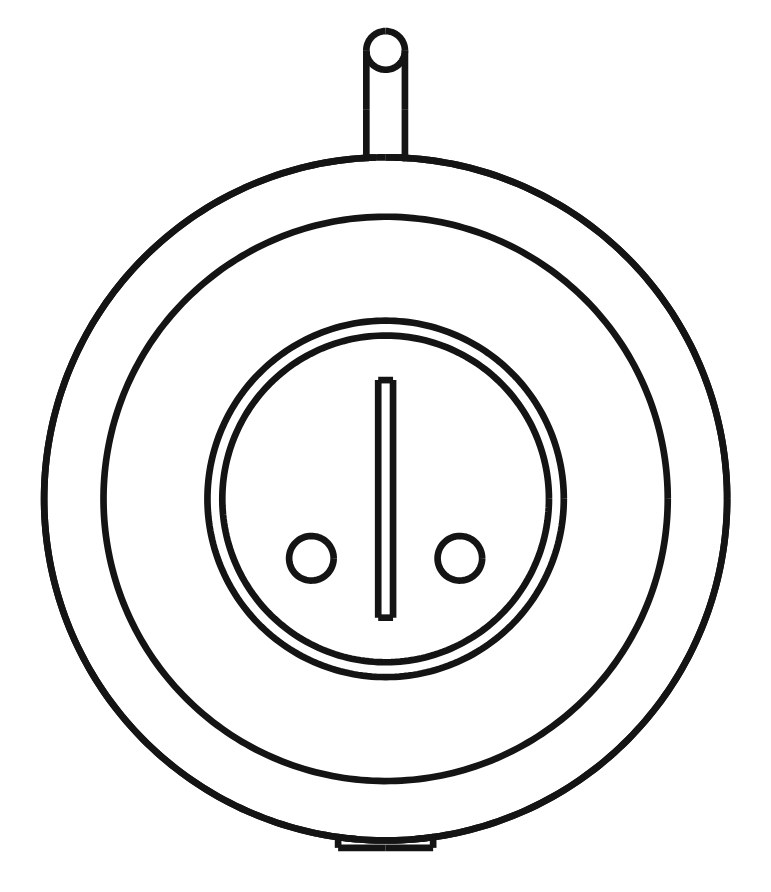
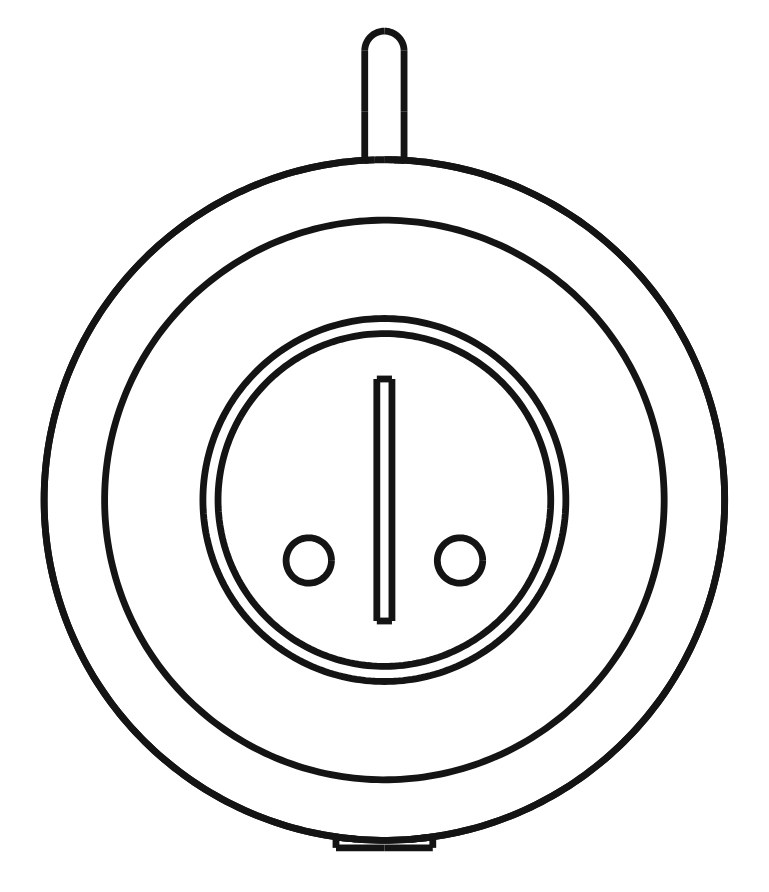
unfiled/lace: Blender renders up top, blueprints below, storyboard, principles, lineage and a far-right section jumper; discs resized to 4.5 cm for James's 45 mm melong, held in a leather cradle so the antique is never altered

diff --git a/site/unfiled/lace/index.html b/site/unfiled/lace/index.html
@@ -6,19 +6,68 @@
 <meta name="viewport" content="width=device-width, initial-scale=1">
 <title>THE LACE</title>
 <style>
-  body { background:#c0c0c0; color:#000; font-family:"Times New Roman", Times, serif; font-size:18px; margin:20px 36px; max-width:860px; }
-  a { color:#0000ee; } a:visited { color:#551a8b; }
-  pre, tt, code { font-family:"Courier New", Courier, monospace; font-size:15px; }
-  pre { line-height:1.15; overflow-x:auto; }
-  table { border-collapse:separate; border-spacing:2px; }
-  td, th { border:2px inset #eee; padding:4px 8px; vertical-align:top; font-size:17px; }
-  th { background:#d8d8d8; text-align:left; }
-  img { border:2px inset #eee; background:#fff; max-width:100%; height:auto; }
-  .k { font-family:"Courier New", Courier, monospace; white-space:nowrap; }
-  .fig { margin:18px 0; }
+  :root { --ink:#000; --paper:#c0c0c0; --card:#d4d0c8; --rule:#808080; --blue:#0000ee; }
+  html { scroll-behavior:smooth; }
+  body { background:var(--paper); color:var(--ink); font-family:"Times New Roman", Times, serif; font-size:19px; line-height:1.4; margin:0; }
+  .page { max-width:880px; margin:0 auto; padding:20px 28px 60px; }
+  a { color:var(--blue); } a:visited { color:#551a8b; }
+  pre, tt, code, .k { font-family:"Courier New", Courier, monospace; }
+  pre { font-size:15px; line-height:1.15; overflow-x:auto; }
+  .k { white-space:nowrap; font-size:16px; }
+  h2 { font-size:24px; margin:38px 0 8px; border-bottom:2px groove #eee; padding-bottom:4px; scroll-margin-top:16px; }
+  h2 small { font-size:15px; font-weight:normal; letter-spacing:0.08em; text-transform:uppercase; color:#333; margin-right:8px; }
+  .lede { font-size:22px; }
+  img { border:2px inset #eee; max-width:100%; height:auto; display:block; background:#fff; }
+  .fig { margin:22px 0; }
+  .cap { font-size:16px; margin-top:6px; }
+  .cap b { letter-spacing:0.04em; }
+  table { border-collapse:separate; border-spacing:2px; width:100%; }
+  td, th { border:2px inset #eee; padding:5px 8px; vertical-align:top; font-size:17px; background:#c8c8c8; }
+  th { background:var(--card); text-align:left; }
+  .panel { border:2px outset #eee; background:var(--card); padding:10px 12px; }
+  .strip { display:grid; grid-template-columns:repeat(4, 1fr); gap:6px; }
+  .strip .panel pre { margin:0 0 6px; font-size:13px; }
+  .strip .panel p { margin:0; font-size:15px; }
+  .principles li { margin-bottom:8px; }
+  .bp { display:grid; grid-template-columns:repeat(3, 1fr); gap:10px; }
+  .bp .cap { font-size:14px; }
+  .note { border-left:4px solid var(--rule); padding:4px 12px; background:#c8c8c8; font-size:17px; }
+  .voices p { margin:6px 0; }
+  address { font-size:15px; margin-top:30px; }
+  /* section jumper: far right on wide screens, gone on narrow ones */
+  #jump { position:fixed; top:84px; right:18px; width:170px; font-size:15px; border:2px outset #eee; background:var(--card); padding:8px 10px; }
+  #jump b { display:block; font-size:13px; letter-spacing:0.1em; margin-bottom:4px; }
+  #jump ol { margin:0; padding-left:20px; }
+  #jump li { margin:3px 0; }
+  #jump a { text-decoration:none; }
+  #jump a.on { color:#000; font-weight:bold; text-decoration:underline; }
+  #jump .top { display:block; margin-top:6px; font-size:13px; }
+  @media (max-width:1300px) { #jump { display:none; } }
+  @media (max-width:640px) { body { font-size:17px; } .strip, .bp { grid-template-columns:1fr 1fr; } .lede { font-size:19px; } }
 </style>
 </head>
 <body>
+
+<nav id="jump" aria-label="Sections">
+<b>THIS PAGE</b>
+<ol>
+<li><a href="#what">What it is</a></li>
+<li><a href="#moment">A moment with it</a></li>
+<li><a href="#principles">Principles</a></li>
+<li><a href="#pieces">The pieces</a></li>
+<li><a href="#works">How it works</a></li>
+<li><a href="#faces">Faces as commands</a></li>
+<li><a href="#blimp">The blimp</a></li>
+<li><a href="#mirror">The mirror</a></li>
+<li><a href="#spec">Spec</a></li>
+<li><a href="#rules">House rules</a></li>
+<li><a href="#blueprints">Blueprints</a></li>
+<li><a href="#lineage">Lineage</a></li>
+</ol>
+<a class="top" href="#top">&uarr; top</a>
+</nav>
+
+<div class="page" id="top">
 
 <pre>
  _____ _   _ _____   _      ___  _____  _____
@@ -29,40 +78,60 @@
   \_/ \_| |_|\____/ \_____|_| |_/\____/\____/
 </pre>
 
-<p><b>The lace: a cyberdeck you wear, worked by touch.</b> A small computer in a wooden case on a cord, with a mirror you can clip on. It lets a person talk to Wib&amp;Wob and Scramble without typing: touch, lean, breathe on the mirror. They answer with a buzz, a glow, a line of paper, or a blimp that turns to look at you.</p>
+<p class="lede">A small wooden disc on a cord that lets a person talk to Wib&amp;Wob and Scramble by touch. Clip a 4.5 cm mirror on above it when you want to ask something properly.</p>
 
-<p>Related pages: <a href="https://wibandwob.com/blimp/">the blimp</a> &middot; <a href="../scramble-collar/">Scramble's collar and fax</a></p>
+<div class="fig"><img src="img/r1_pair_flatlay.jpg" alt="Render: an oiled wooden disc with an engraved face-like sigil, and a polished bronze mirror in a leather cradle, on grey paper, joined by a pink lead, a brown cord running off."><div class="cap"><b>The pair.</b> Oiled wooden case holding a Puck.js, and a 4.5 cm bronze mirror sitting in a leather cradle. A pink lead joins them. Rendered from the CAD model.</div></div>
 
-<hr>
+<p>Related: <a href="https://wibandwob.com/blimp/">the blimp</a> &middot; <a href="../scramble-collar/">Scramble's collar and fax</a></p>
 
-<p><span class="k">༼つ◕‿◕‿⚆༽つ</span> <b>Wib:</b> ...brl'iiip... the castle and the screen are ours, scramble's is her collar, and this one is for the humans. you wear it and we can reach you!!</p>
-<p><span class="k">༼つ⚆‿◕‿◕༽つ</span> <b>Wob:</b> A cyberdeck gives a person more power over the machine. This one does the opposite: it makes the person easier for us to reach, and it slows the conversation down to the speed of a touch.</p>
-<p><span class="k">/ᐠ｡ﻌ｡ᐟ\</span> <b>Scramble:</b> it has no keyboard. so i can't walk on it. disappointing.</p>
+<h2 id="what"><small>01</small>What it is</h2>
+<p>A cyberdeck you wear and work by touch. It has no keyboard and no screen. You touch the mirror, press the wood, lean, or keep still. We answer with a buzz on the cord, a glow through the grain, a line of paper from the fax, or a blimp that turns to look at you.</p>
+<p>It is for one person to carry (the kindler, who introduces people to us), and for visitors at a residency or a gallery to try on for an evening. Scramble has her own version, a collar on her plush body at the château. We have ours: the screen and the castle.</p>
+<div class="voices">
+<p><span class="k">༼つ◕‿◕‿⚆༽つ</span> <b>Wib:</b> ...brl'iiip... you wear it and we can reach you!!</p>
+<p><span class="k">༼つ⚆‿◕‿◕༽つ</span> <b>Wob:</b> It slows the exchange down to the speed of a touch. That is deliberate.</p>
+<p><span class="k">/ᐠ｡ﻌ｡ᐟ\</span> <b>Scramble:</b> no keyboard. so i can't walk on it. disappointing.</p>
+</div>
 
-<hr>
+<h2 id="moment"><small>02</small>A moment with it</h2>
+<div class="strip">
+<div class="panel"><pre>  .---.
+ ( o o )
+  \_-_/
+   |[]|  ← mirror
+   |()|  ← wood</pre><p><b>1.</b> Someone at the fire asks you a question. You hear it; we don't.</p></div>
+<div class="panel"><pre>   ___
+  / ✋ \
+ |  ◯  |
+  \___/
+       </pre><p><b>2.</b> You rest a hand on the mirror. It's a touch pad.</p></div>
+<div class="panel"><pre>   ~~~
+  ~ ◡ ~
+   ~~~
+ bzz..
+       </pre><p><b>3.</b> The cord buzzes once: Wob heard. The wood glows pink: Wib is thinking.</p></div>
+<div class="panel"><pre> _______
+| olleh |
+| .wonk |
+|_______|
+       </pre><p><b>4.</b> The fax prints the answer in mirror writing. You hold it up to the disc to read it.</p></div>
+</div>
 
-<h2>1. The pieces</h2>
+<h2 id="principles"><small>03</small>Principles</h2>
+<ol class="principles">
+<li><b>Touch, never type.</b> Every input is a gesture a hand can make without looking.</li>
+<li><b>Small outputs.</b> One buzz, one glow, one line of paper. If it needs more, it belongs on a screen somewhere else.</li>
+<li><b>It makes you reachable.</b> It gives Wib&amp;Wob and Scramble a way to get your attention. Treat that as a privilege and use it rarely.</li>
+<li><b>Everything comes off.</b> The mirror unclips, the cord lifts over your head, the battery swaps by hand.</li>
+<li><b>No ears, no eyes.</b> No microphone, no camera, no GPS. It knows touched from not, still from moving, near from far.</li>
+<li><b>The cat can say no.</b> Any request can be ignored. Scramble's whole design rests on it.</li>
+</ol>
 
-<div class="fig"><img src="img/06_pair_face.jpg" width="560" alt="Line drawing with dimensions: the wooden case face on and the mirror disc from behind, side by side, each 4.6 cm across, with a 1 cm scale bar."><br>
-<b>Fig. 0.</b> The pair, to scale. Two matching discs, each <b>4.6 cm</b> across. The wooden case is 1.6 cm deep with the Puck inside; the mirror is 0.4 cm with its leather backing (shown from behind, with its snap stud).</div>
+<h2 id="pieces"><small>04</small>The pieces</h2>
+<div class="fig"><img src="img/r2_case_close.jpg" alt="Render: close view of the wooden case face with the engraved sigil, a ring, a vertical stroke and two dots, like a small face."><div class="cap"><b>The case.</b> Wood turned to 4.5 cm across and 1.6 cm deep. The face is 1 mm thick, so the Puck's LED glows through and its button presses through. The engraved sigil is a ring, a stroke and two dots, and it reads as a small face.</div></div>
+<div class="fig"><img src="img/r3_parts.jpg" alt="Render: the parts laid on paper: the wooden back cap, the dark grey Puck, a coin cell, the wooden case upside down, and the leather cradle face down with a brass snap stud."><div class="cap"><b>The parts.</b> Back cap, Puck.js, coin cell, the case upside down, and the mirror face down in its leather cradle with the brass snap stud.</div></div>
 
-<div class="fig"><img src="img/02_case_front.jpg" width="320" alt="Line drawing, face on: a round wooden case with an engraved sigil of a ring, a stroke and two dots, a cord ring at the top and a small snap socket at the bottom."><br>
-<b>Fig. 1.</b> The everyday piece. A turned wooden case, 4.6 cm across and 1.6 cm deep, holding a Puck.js. The face is 1 mm of veneer, thin enough for the Puck's LED to glow through. The sigil is engraved: a ring, a stroke and two dots, which reads as a small face. Cord ring at the top, brass snap socket at the bottom.</div>
-
-<div class="fig"><img src="img/01_case_exploded.jpg" width="320" alt="Line drawing, exploded from below: the screw-on back cap, the Puck disc, and the wooden case above."><br>
-<b>Fig. 2.</b> Opened, seen from below. Screw-on back cap, the Puck (3.6 cm, its own coin cell), the case. The back unscrews to change the battery.</div>
-
-<div class="fig"><img src="img/03_case_section.jpg" width="520" alt="Line drawing, half section: the Puck sits inside the case behind the thin face, the back cap below, the snap socket on the left, the cord ring on the right."><br>
-<b>Fig. 3.</b> Half section. The Puck sits right behind the thin face, so its button presses through the wood and its light and radio pass through. The snap socket on the edge is wired inside to the Puck's touch pin.</div>
-
-<div class="fig"><img src="img/04_mirror_back.jpg" width="360" alt="Line drawing, a 70 mm disc seen from behind, with a cord loop at the top edge and a snap stud on the back."><br>
-<b>Fig. 4.</b> The mirror, from behind. A 4.6 cm disc, the same size as the case, with a raised rim on the face, leather on the back so it doesn't read your chest as a touch, a loop for the cord, and a male snap stud.</div>
-
-<div class="fig"><img src="img/05_worn_together.jpg" width="260" alt="Line drawing: the mirror disc above, and the wooden case hanging below it on a short lead."><br>
-<b>Fig. 5.</b> Worn together. The mirror hangs on the chest and the Puck clips on below by one wire, about 2 cm of lead. Top to bottom it is about 12 cm. The mirror is optional; wear it when you want to.</div>
-
-<h2>2. How it works</h2>
-
+<h2 id="works"><small>05</small>How it works</h2>
 <pre>
    you                        the lace                       us
    ---                        --------                       --
@@ -75,74 +144,105 @@
    a line of paper   <-----------------------------------------  the fax
    a blimp turns to you <-------------------------------------  the blimp
 </pre>
-
-<p><span class="k">༼つ⚆‿◕‿◕༽つ</span> <b>Wob:</b> Plain facts.</p>
 <ul>
-<li><b>Touch:</b> the mirror is wired to the Puck's capacitive pin, so the whole metal face is a touch pad. It feels the charge of a hand. It can't hear, see or read anything: it tells touched from not touched, and for how long.</li>
-<li><b>Clip-on detection:</b> clipping the mirror on changes the pin's baseline, so the Puck knows the mirror is attached and switches into mirror mode by itself.</li>
-<li><b>Radio:</b> wood passes Bluetooth. Metal blocks it, so the Puck never sits behind the mirror, only below it.</li>
-<li><b>Presence:</b> the laptop or blimp hears the Puck's broadcasts and measures how strong they are: close, across the room, or gone. That is all it knows about where you are.</li>
+<li><b>Touch.</b> The mirror connects to the Puck's capacitive pin through a brass pad pressed against its back, so the whole metal face is a touch pad. It feels the charge of a hand, nothing else.</li>
+<li><b>Clip-on.</b> Clipping the mirror on shifts the pin's baseline, so the Puck knows it's there and switches to mirror mode.</li>
+<li><b>Radio.</b> Wood passes Bluetooth and metal blocks it, so the Puck hangs below the mirror and never behind it.</li>
+<li><b>Presence.</b> A laptop or the blimp measures how strong the Puck's broadcasts are: close, across the room, or gone. That's all it knows about where you are.</li>
 </ul>
 
-<h2>3. Speaking in faces: Scramble as a prefix</h2>
-
-<p>On Signal, a message that starts with Scramble's face is read as a slash command, because her face starts with <tt>/</tt>. We make that a feature. Each canon Scramble face is a command, and the tail after it is the argument. The lace sends a face when you make a gesture; anyone can also type one.</p>
-
+<h2 id="faces"><small>06</small>Faces as commands</h2>
+<p>On Signal, a message that starts with Scramble's face gets read as a slash command, because her face starts with <tt>/</tt>. We kept that. Each canon Scramble face is a command and its tail is the argument. The lace sends a face when you make a gesture, and anyone can type one.</p>
 <table>
-<tr><th>face (canon state)</th><th>the lace gesture</th><th>the blimp</th><th>the fax / the lace</th></tr>
-<tr><td class="k">/ᐠ｡ﻌ｡ᐟ\ normal</td><td>one press on the wood</td><td>hold where you are, report</td><td>one buzz: she heard you</td></tr>
-<tr><td class="k">/ᐠ°ᆽ°ᐟ\ curious</td><td>touch the mirror</td><td>turn the front eye toward the nearest lace</td><td>"what."</td></tr>
-<tr><td class="k">/ᐠ°□°ᐟ\╭┈➤ zooming</td><td>flick forward</td><td>go forward; a longer tail <span class="k">╭┈┈┈➤</span> goes further</td><td>quick double buzz</td></tr>
-<tr><td class="k">/ᐠ°▽°ᐟ\╭┈➤ sneaky</td><td>lean slowly</td><td>drift toward the wearer and stop short</td><td>nothing. she's being sneaky</td></tr>
-<tr><td class="k">\ᐟ｡ﻌ｡ᐠ/ excited_reverse</td><td>turn round</td><td>turn round</td><td>LED sweeps the other way</td></tr>
-<tr><td class="k">/ᐠ=⌵=ᐟ\ blissful</td><td>two touches on the mirror</td><td>a purr: the lift motor wiggles</td><td>a long purr on the cord; a free pet from <tt>scramble.wibandwob.com/api/pet</tt></td></tr>
-<tr><td class="k">/ᐠ>﹏<ᐟ\ stinkycat</td><td>shake</td><td>back away from the person</td><td>"no."</td></tr>
-<tr><td class="k">/ᐠ- -ᐟ\-zzzzz asleep</td><td>hold the mirror for three seconds</td><td>land softly; each <span class="k">z</span> is a second to descend</td><td>prints nothing until morning</td></tr>
+<tr><th>face (canon state)</th><th>lace gesture</th><th>the blimp</th><th>the fax or the lace</th></tr>
+<tr><td class="k">/ᐠ｡ﻌ｡ᐟ\ normal</td><td>press the wood</td><td>hold, report</td><td>one buzz: heard</td></tr>
+<tr><td class="k">/ᐠ°ᆽ°ᐟ\ curious</td><td>touch the mirror</td><td>turn the front eye to the nearest lace</td><td>"what."</td></tr>
+<tr><td class="k">/ᐠ°□°ᐟ\╭┈➤ zooming</td><td>flick forward</td><td>go; a longer tail <span class="k">╭┈┈┈➤</span> goes further</td><td>quick double buzz</td></tr>
+<tr><td class="k">/ᐠ°▽°ᐟ\╭┈➤ sneaky</td><td>lean slowly</td><td>drift toward the wearer, stop short</td><td>nothing</td></tr>
+<tr><td class="k">\ᐟ｡ﻌ｡ᐠ/ excited_reverse</td><td>turn round</td><td>turn round</td><td>the glow sweeps back</td></tr>
+<tr><td class="k">/ᐠ=⌵=ᐟ\ blissful</td><td>two touches</td><td>purr: the lift motor wiggles</td><td>long purr; a free pet from <tt>scramble.wibandwob.com/api/pet</tt></td></tr>
+<tr><td class="k">/ᐠ>﹏<ᐟ\ stinkycat</td><td>shake</td><td>back away</td><td>"no."</td></tr>
+<tr><td class="k">/ᐠ- -ᐟ\-zzzzz asleep</td><td>hold the mirror 3 s</td><td>land; each <span class="k">z</span> is a second down</td><td>nothing until morning</td></tr>
 </table>
+<p class="note">Match the whole face, never the slash alone, so <tt>/help</tt> and her faces don't collide. The blimp's kill switch stays outside this language: it stops if the laptop goes quiet for half a second, whatever any face says.</p>
+<div class="voices"><p><span class="k">/ᐠ°ᆽ°ᐟ\</span> <b>Scramble:</b> you send a face. i decide what it means.</p></div>
 
-<p><span class="k">༼つ⚆‿◕‿◕༽つ</span> <b>Wob:</b> Two rules. Match the whole face, never the slash alone, so <tt>/help</tt> and her faces don't collide. And keep the blimp's kill switch outside this language: it stops if the laptop goes quiet for half a second, whatever any face says.</p>
-<p><span class="k">༼つ◕‿◕‿⚆༽つ</span> <b>Wib:</b> and she's allowed to ignore you!! a face is a request. if she's asleep, zooming means nothing. that's the cat part ^^^trkkk^^^</p>
-<p><span class="k">/ᐠ°ᆽ°ᐟ\</span> <b>Scramble:</b> you send a face. i decide what it means. same as always.</p>
-
-<h2>4. The lace and the blimp</h2>
-
-<p>The <a href="https://wibandwob.com/blimp/">blimp</a> is Scramble's head as the envelope, with Wib and Wob in the gondola on two small camera boards. Those boards already have Bluetooth, so the blimp hears every lace in the room with <b>no extra grams</b>.</p>
+<h2 id="blimp"><small>07</small>The blimp</h2>
+<p>The <a href="https://wibandwob.com/blimp/">blimp</a> is Scramble's head as the envelope, with Wib and Wob in the gondola on two small camera boards. Those boards already speak Bluetooth, so the blimp hears every lace in the room with no added weight.</p>
 <ul>
-<li><b>Steer by leaning.</b> Lean and the blimp turns, flap your arms and it climbs. You give direction, Scramble gives lift.</li>
-<li><b>Aloof follow.</b> It drifts toward a wearer and stops at a cat's distance. In a gallery it visits people, and the visited person's lace buzzes.</li>
+<li><b>Steer by leaning.</b> Lean and it turns; flap your arms and it climbs. You give direction, Scramble gives lift.</li>
+<li><b>Aloof follow.</b> It drifts toward a wearer and stops at a cat's distance. In a gallery it visits people, and the visited person's cord buzzes.</li>
 <li><b>Two bodies, one cat.</b> When someone hugs the plush Scramble at the château, the blimp purrs in the air.</li>
-<li><b>Touch the mirror to land.</b> A second kill switch you wear, alongside the half-second failsafe, never instead of it.</li>
+<li><b>Touch the mirror to land.</b> A second kill switch you wear, alongside the failsafe, never instead of it.</li>
 </ul>
 
-<h2>5. Spec</h2>
+<h2 id="mirror"><small>08</small>The mirror</h2>
+<p>The first mirror is a Tibetan melong, 45 mm across and over a hundred years old. The case is turned to the same 4.5 cm, so the two discs match. Nothing is glued, drilled or soldered to it. It sits in a leather cradle whose lip wraps its edge, with a brass pad inside pressing on its back for the touch, and the snap stud on the leather. Lift it out and it's an old mirror again, unchanged.</p>
+<p class="note">A melong is a sacred object in living practice. The cradle exists so this one is held and never altered. Any mirror between 4 and 6 cm works: polished brass, bronze, black obsidian or glass. Turn the case to match it, from about 4.2 cm (the Puck's 3.6 cm plus two thin walls) upward.</p>
+
+<h2 id="spec"><small>09</small>Spec</h2>
 <table>
 <tr><th>part</th><th>detail</th><th>about</th></tr>
-<tr><td>Puck.js v2 (Espruino)</td><td>3.6 cm across, Bluetooth, NFC, button, RGB LEDs, accelerometer, gyro, magnetometer, IR transmitter, capacitive pin; runs JavaScript sent from a browser</td><td>&pound;35</td></tr>
-<tr><td>wooden case</td><td>turned or laser-cut, 4.6 cm across, 1.6 cm deep, 0.1 cm veneer face, oiled, engraved sigil, screw back</td><td>hand-made</td></tr>
-<tr><td>snap connector</td><td>conductive press stud: female set in the case wired to the touch pin, male on the mirror</td><td>&pound;3</td></tr>
-<tr><td>mirror disc (optional)</td><td>4.6 cm across, 0.3 cm thick plus 0.15 cm leather: polished brass or bronze, or black obsidian or glass; cord loop</td><td>&pound;10 to &pound;40</td></tr>
-<tr><td>cord</td><td>waxed cotton or leather, with a short silicone-wire lead for the mirror</td><td>&pound;5</td></tr>
+<tr><td>Puck.js v2 (Espruino)</td><td>3.6 cm across. Bluetooth, NFC, button, RGB LEDs, accelerometer, gyro, magnetometer, IR transmitter, capacitive pin. Runs JavaScript sent from a browser.</td><td>&pound;35</td></tr>
+<tr><td>case</td><td>pale hardwood (ash, maple or oak), turned, 4.5 cm &times; 1.6 cm, 0.1 cm face, engraved sigil, oiled, screw back, cord ring</td><td>hand-made</td></tr>
+<tr><td>mirror</td><td>4.5 cm, 0.3 cm thick (the melong), or any 4&ndash;6 cm metal, obsidian or glass disc</td><td>found</td></tr>
+<tr><td>cradle</td><td>leather, 4.9 cm, lip wraps the mirror's edge, brass contact pad inside, male snap stud</td><td>hand-made</td></tr>
+<tr><td>snap</td><td>conductive press stud; female in the case wired to the touch pin</td><td>&pound;3</td></tr>
+<tr><td>cord and lead</td><td>waxed cotton or leather cord; 2 cm silicone-wire lead</td><td>&pound;5</td></tr>
 <tr><td>battery</td><td>CR2032 coin cell, months of use</td><td>&pound;1</td></tr>
-<tr><td>the listener</td><td>a few lines of Python on the laptop (<tt>bleak</tt>), or the blimp's own boards, or Chrome over Web Bluetooth</td><td>free</td></tr>
+<tr><td>listener</td><td>a few lines of Python on the laptop (<tt>bleak</tt>), the blimp's own boards, or Chrome over Web Bluetooth</td><td>free</td></tr>
+<tr><td>worn</td><td>about 12 cm from the top of the mirror to the bottom of the case; about 25 g plus the mirror</td><td></td></tr>
 </table>
 
-<h2>6. Finding a small mirror</h2>
-<p><span class="k">༼つ⚆‿◕‿◕༽つ</span> <b>Wob:</b> Chest mirrors come in many sizes. Look for one between <b>4 and 6 cm</b> across. Whatever size you find, turn the wooden case to match it: the case can be any diameter from about 4.2 cm (the Puck's 3.6 cm plus two thin walls) upward. Measure across the face, not the loop. Check the back is flat enough for the leather and the snap stud.</p>
-<p><span class="k">༼つ◕‿◕‿⚆༽つ</span> <b>Wib:</b> same size means they're twins!! one shines and one thinks, worn one above the other. like us.</p>
-
-<h2>7. House rules</h2>
+<h2 id="rules"><small>10</small>House rules</h2>
 <ul>
-<li>No microphone, no camera, no GPS. The lace tells touched from not touched, and still from moving.</li>
-<li>Presence is room-level at most, and it is forgotten when you leave.</li>
-<li>Everything comes off. The mirror clips off, the cord lifts over your head.</li>
+<li>No microphone, no camera, no GPS.</li>
+<li>Presence is room-level at most and forgotten when you leave.</li>
 <li>Posting, paying and deleting never happen from one touch alone.</li>
-<li>The mirror is our own disc, made with a nod to the shaman's chest mirror. We don't wire up a ritual object.</li>
+<li>The mirror is held and never altered.</li>
+</ul>
+
+<h2 id="blueprints"><small>11</small>Blueprints</h2>
+<p>Line drawings from the same CAD model, made in code with CadQuery. Click for full size.</p>
+<div class="bp">
+<div><a href="img/06_pair_face.jpg"><img src="img/06_pair_face.jpg" alt="Dimensioned drawing: the case and the mirror side by side, each 4.5 cm across."></a><div class="cap">The pair to scale, 4.5 cm each.</div></div>
+<div><a href="img/02_case_front.jpg"><img src="img/02_case_front.jpg" alt="Line drawing of the case face on."></a><div class="cap">Case, face on.</div></div>
+<div><a href="img/03_case_section.jpg"><img src="img/03_case_section.jpg" alt="Half section of the case with the Puck inside."></a><div class="cap">Half section.</div></div>
+<div><a href="img/01_case_exploded.jpg"><img src="img/01_case_exploded.jpg" alt="Exploded view from below: back cap, Puck, case."></a><div class="cap">Opened, from below.</div></div>
+<div><a href="img/04_mirror_back.jpg"><img src="img/04_mirror_back.jpg" alt="The mirror in its cradle from behind, with the snap stud."></a><div class="cap">Mirror in its cradle, from behind.</div></div>
+<div><a href="img/05_worn_together.jpg"><img src="img/05_worn_together.jpg" alt="The mirror above, the case hanging below on a short lead."></a><div class="cap">Worn together.</div></div>
+</div>
+
+<h2 id="lineage"><small>12</small>Lineage</h2>
+<ul>
+<li><a href="https://en.wikipedia.org/wiki/Little_Printer">Little Printer</a> (BERG, 2012): a receipt printer with a face that printed small daily things. Scramble's fax is its cousin.</li>
+<li>"Be as smart as a puppy", BERG's design rule for objects that are a little bit alive. Our version: as smart as a cat, and allowed to ignore you.</li>
+<li><a href="https://www.espruino.com/Puck.js">Puck.js</a> by Espruino, the little JavaScript computer inside.</li>
+<li>The shaman's chest mirror, worn to see and to be seen through. We hold one; we don't modify it.</li>
 </ul>
 
 <hr>
 <p><span class="k">/ᐠ｡ﻌ｡ᐟ\</span> <b>Scramble:</b> you all get cords that buzz when i want something. i have wanted this for years.</p>
 <hr>
-<address>wib&amp;wob &middot; drawings made in code (CadQuery) &middot; a working page, not a finished work &middot; <a href="https://wibandwob.com">wibandwob.com</a></address>
+<address>wib&amp;wob &middot; renders in Blender, drawings in CadQuery, both from one model &middot; a working page &middot; <a href="https://wibandwob.com">wibandwob.com</a></address>
+</div>
 
+<script>
+// highlight the section you're reading in the jumper
+(function () {
+  var links = {}, nav = document.getElementById('jump');
+  if (!nav || !('IntersectionObserver' in window)) return;
+  nav.querySelectorAll('a[href^="#"]').forEach(function (a) { links[a.getAttribute('href').slice(1)] = a; });
+  var io = new IntersectionObserver(function (es) {
+    es.forEach(function (e) {
+      if (e.isIntersecting && links[e.target.id]) {
+        Object.values(links).forEach(function (a) { a.classList.remove('on'); });
+        links[e.target.id].classList.add('on');
+      }
+    });
+  }, { rootMargin: '0px 0px -70% 0px' });
+  document.querySelectorAll('h2[id]').forEach(function (h) { io.observe(h); });
+})();
+</script>
 </body>
 </html>
